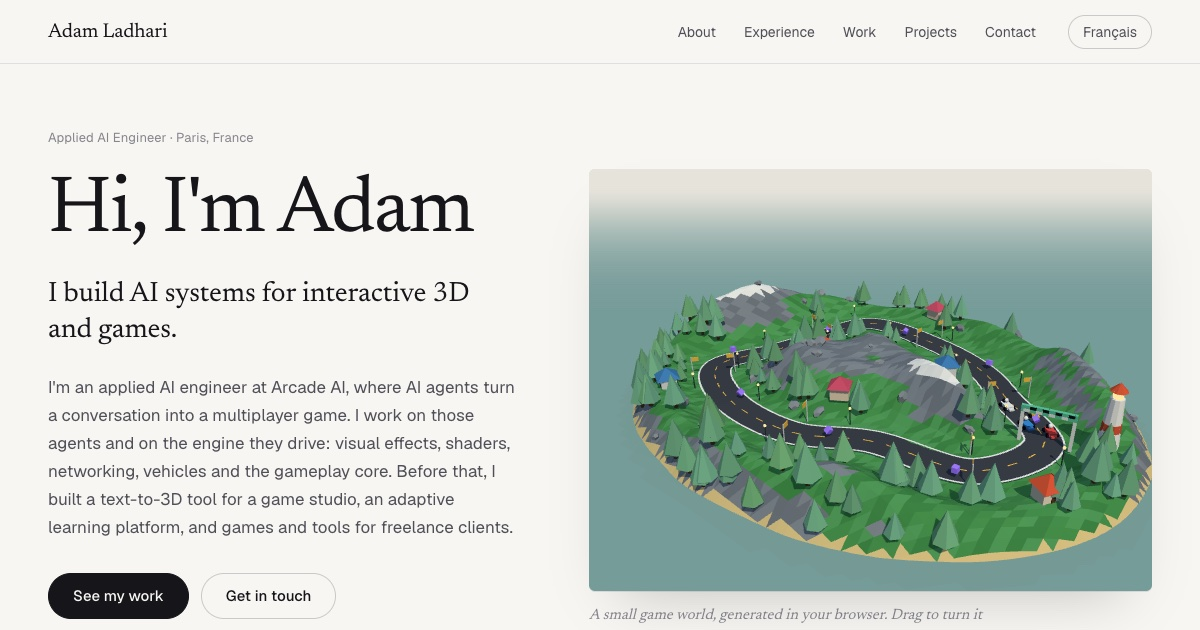
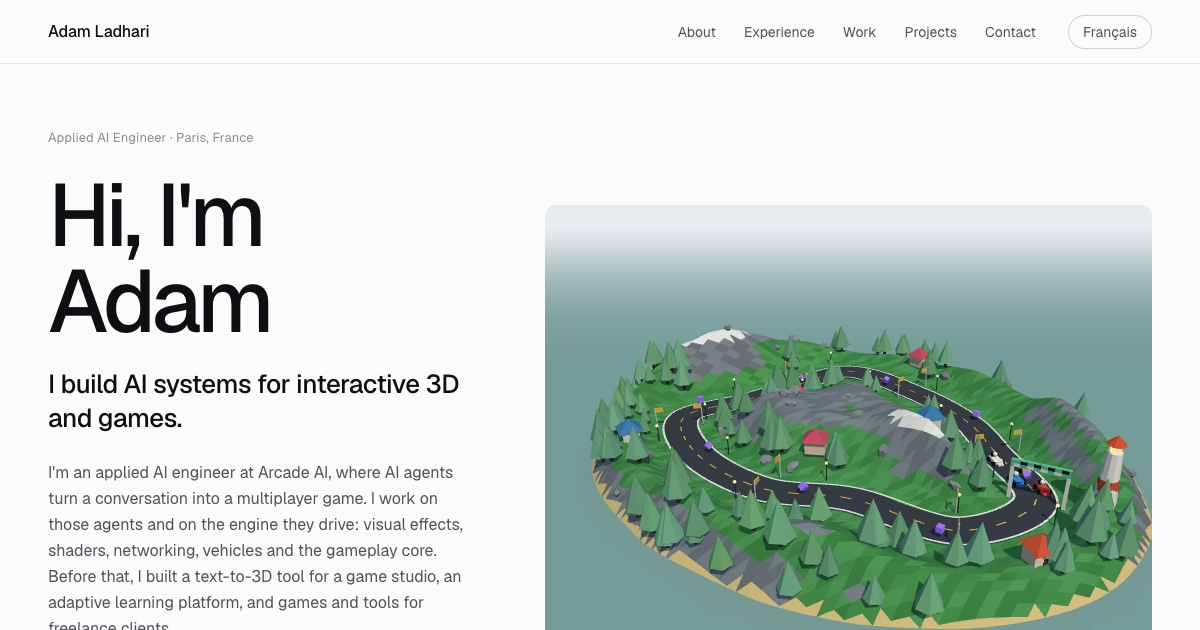
Move from editorial to a crisp portfolio layout
The serif and warm paper read like a blog. Headings are now Geist with
tight tracking on a cool white, sections use a two-column grid with a
numbered title on the left and content on the right, the hero gives the
3D more room, and the demo buttons are quiet outlines. Newsreader is
removed; poster and link preview recaptured.

diff --git a/src/styles.css b/src/styles.css
@@ -1,20 +1,20 @@
 @import '@fontsource-variable/geist/index.css';
 @import '@fontsource-variable/geist-mono/index.css';
-@import '@fontsource-variable/newsreader/index.css';
 
-/* Light editorial: paper, ink and one quiet green. The 3D stays dark, framed like a screen.
+/* Light and precise: white, ink, one quiet green, a strict two-column grid. The 3D stays dark, framed like a screen.
    Earlier design pass followed "unslop" by Damir Sokolovsky (@heydamir), CC BY 4.0. */
 
 :root {
-  --paper: #f7f6f2;
-  --bg: #f7f6f2;
-  --card: #efede7;
-  --raised: #e8e5dd;
-  --hair: rgba(22, 22, 26, 0.10);
-  --hair-strong: rgba(22, 22, 26, 0.20);
-  --text: #16161a;
-  --text-2: #4f4f57;
-  --text-3: #85858c;
+  --paper: #fbfbfa;
+  --bg: #fbfbfa;
+  --card: #f2f2f0;
+  --raised: #e9e9e6;
+  --sky: #e9ecee;
+  --hair: rgba(15, 15, 18, 0.09);
+  --hair-strong: rgba(15, 15, 18, 0.18);
+  --text: #0f0f12;
+  --text-2: #50525a;
+  --text-3: #8b8d94;
   --accent: #2f6b55;
   --negative: #b4543a;
   /* The 3D viewer and its overlays stay dark */
@@ -26,7 +26,6 @@
   --v-accent: #5dcaa5;
   --v-negative: #e0795a;
 
-  --serif: 'Newsreader Variable', 'Iowan Old Style', Georgia, serif;
   --sans: 'Geist Variable', system-ui, -apple-system, 'Segoe UI', Roboto, sans-serif;
   --mono: 'Geist Mono Variable', ui-monospace, 'SF Mono', Menlo, Consolas, monospace;
   --ease: cubic-bezier(0.22, 1, 0.36, 1);
@@ -54,10 +53,10 @@ a:hover { color: var(--accent); text-decoration-color: currentColor; }
 :focus-visible { outline: 2px solid var(--text); outline-offset: 3px; border-radius: 4px; }
 
 h1, h2, h3, h4, p, ul, ol, dl, dd { margin: 0; }
-h1, h2, h3 { font-family: var(--serif); font-weight: 400; font-optical-sizing: auto; }
-h1 { font-size: 80px; line-height: 1; letter-spacing: -0.025em; }
-h2 { font-size: 44px; line-height: 1.1; letter-spacing: -0.015em; }
-h3 { font-size: 26px; line-height: 1.25; letter-spacing: -0.005em; }
+h1, h2, h3 { font-weight: 500; }
+h1 { font-size: 88px; line-height: 0.98; letter-spacing: -0.045em; }
+h2 { font-size: 28px; line-height: 1.15; letter-spacing: -0.02em; }
+h3 { font-size: 24px; line-height: 1.25; letter-spacing: -0.015em; }
 h4 { font-size: 13px; line-height: 20px; font-weight: 500; color: var(--text-3); letter-spacing: 0.01em; }
 
 .skip { position: absolute; left: -999px; top: 8px; background: var(--text); color: var(--bg); padding: 8px 12px; border-radius: 8px; z-index: 50; }
@@ -69,12 +68,12 @@ h4 { font-size: 13px; line-height: 20px; font-weight: 500; color: var(--text-3);
   height: var(--top);
   display: flex; align-items: center; gap: 32px;
   padding: 0 var(--gutter);
-  background: rgba(247, 246, 242, 0.88);
+  background: rgba(251, 251, 250, 0.86);
   backdrop-filter: saturate(1.2) blur(12px);
   -webkit-backdrop-filter: saturate(1.2) blur(12px);
   border-bottom: 1px solid var(--hair);
 }
-.brand { font: 400 20px/1 var(--serif); color: var(--text); text-decoration: none; white-space: nowrap; letter-spacing: -0.01em; }
+.brand { font: 500 16px/1 var(--sans); color: var(--text); text-decoration: none; white-space: nowrap; letter-spacing: -0.01em; }
 .top nav { display: flex; flex: 1 1 auto; justify-content: flex-end; gap: 28px; min-width: 0; font-size: 14px; overflow-x: auto; scrollbar-width: none; }
 .top nav a { color: var(--text-2); text-decoration: none; white-space: nowrap; line-height: 32px; }
 .top nav a:hover { color: var(--text); }
@@ -91,7 +90,7 @@ h4 { font-size: 13px; line-height: 20px; font-weight: 500; color: var(--text-3);
 .btn:hover { border-color: var(--text); color: var(--text); }
 .btn:active { transform: scale(0.98); }
 .btn-primary { background: var(--text); color: var(--paper); border-color: var(--text); }
-.btn-primary:hover { background: #2c2c33; color: var(--paper); }
+.btn-primary:hover { background: #2a2b31; color: var(--paper); }
 .btn-sm { height: 38px; padding: 0 18px; font-size: 14px; }
 .icon-btn { width: 38px; height: 38px; flex: none; border-radius: 999px; border: 1px solid var(--hair-strong); background: transparent; color: var(--text); font: 400 15px/1 var(--sans); cursor: pointer; transition: border-color 160ms var(--ease), opacity 160ms var(--ease); }
 .icon-btn:hover { border-color: var(--text); }
@@ -101,19 +100,19 @@ h4 { font-size: 13px; line-height: 20px; font-weight: 500; color: var(--text-3);
 .hero {
   max-width: 1360px; margin: 0 auto; padding: 64px var(--gutter) 96px;
   min-height: calc(100svh - var(--top));
-  display: grid; grid-template-columns: minmax(0, 5fr) minmax(0, 6fr); gap: 72px; align-items: center;
+  display: grid; grid-template-columns: minmax(0, 5fr) minmax(0, 7fr); gap: 64px; align-items: center;
 }
 .hero-text { display: grid; gap: 24px; align-content: center; }
 .eyebrow, .kicker { font-size: 13px; line-height: 20px; color: var(--text-3); letter-spacing: 0.01em; }
-.lead { font: 400 28px/1.3 var(--serif); color: var(--text); max-width: 560px; letter-spacing: -0.005em; }
-.intro { color: var(--text-2); max-width: 540px; font-size: 17px; line-height: 28px; }
+.lead { font: 500 26px/1.3 var(--sans); color: var(--text); max-width: 520px; letter-spacing: -0.02em; }
+.intro { color: var(--text-2); max-width: 500px; font-size: 16px; line-height: 26px; }
 .actions { display: flex; flex-wrap: wrap; gap: 12px; margin-top: 8px; }
 .links { display: flex; flex-wrap: wrap; gap: 24px; font-size: 14px; }
 .links a { color: var(--text-2); }
 .links a:hover { color: var(--text); }
 .hero-visual { margin: 0; display: grid; gap: 14px; }
-.hero-visual .viewer-slot { aspect-ratio: 4 / 3; border-radius: 6px; overflow: hidden; background: #e6e3da; box-shadow: 0 1px 0 var(--hair), 0 30px 60px -30px rgba(22, 22, 26, 0.25); }
-.hero-visual figcaption { font: italic 400 15px/22px var(--serif); color: var(--text-3); }
+.hero-visual .viewer-slot { aspect-ratio: 4 / 3; border-radius: 12px; overflow: hidden; background: var(--sky); }
+.hero-visual figcaption { font: 400 13px/20px var(--mono); color: var(--text-3); }
 .viewer-slot { position: relative; }
 .viewer-poster { width: 100%; height: 100%; object-fit: cover; display: block; }
 .stage-ready #hero-slot .viewer-poster { visibility: hidden; }
@@ -121,12 +120,12 @@ h4 { font-size: 13px; line-height: 20px; font-weight: 500; color: var(--text-3);
 /* The shared 3D viewer, moved between the hero and the demo dialog */
 .viewer { position: absolute; inset: 0; }
 .stage-ready .viewer, .capture .viewer { background: var(--deep); }
-.stage-ready #hero-slot .viewer { background: #e6e3da; }
+.stage-ready #hero-slot .viewer { background: var(--sky); }
 #stage-canvas { position: absolute; inset: 0; width: 100%; height: 100%; display: block; touch-action: pan-y; cursor: grab; }
 #stage-canvas:active { cursor: grabbing; }
 .stage-loading { position: absolute; inset: 0; margin: auto; width: max-content; height: max-content; font-size: 13px; color: var(--v-text-3); }
 #hero-slot .stage-loading { color: var(--text-3); }
-#hero-slot .hud { background: rgba(247, 246, 242, 0.86); border-color: var(--hair); color: var(--text); backdrop-filter: blur(6px); }
+#hero-slot .hud { background: rgba(251, 251, 250, 0.86); border-color: var(--hair); color: var(--text); backdrop-filter: blur(6px); }
 #hero-slot .hud-row span:first-child { color: var(--text-3); }
 #hero-slot .hud-row .ok { color: var(--accent); }
 .capture .viewer { position: fixed; inset: 0; z-index: 100; }
@@ -162,13 +161,17 @@ h4 { font-size: 13px; line-height: 20px; font-weight: 500; color: var(--text-3);
 input[type='range'] { accent-color: var(--v-accent); }
 
 /* Sections */
-.band { max-width: 1360px; margin: 0 auto; padding: 128px var(--gutter); border-top: 1px solid var(--hair); display: grid; gap: 32px; }
-.band-intro { color: var(--text-2); max-width: 640px; margin-top: -12px; font-size: 17px; line-height: 28px; }
+main { counter-reset: section; }
+.band { max-width: 1360px; margin: 0 auto; padding: 112px var(--gutter); border-top: 1px solid var(--hair); display: grid; grid-template-columns: 240px minmax(0, 1fr); column-gap: 64px; row-gap: 32px; align-items: start; }
+.band > * { grid-column: 2; }
+.band > h2 { grid-column: 1; grid-row: 1 / span 30; position: sticky; top: calc(var(--top) + 32px); counter-increment: section; }
+.band > h2::before { content: counter(section, decimal-leading-zero); display: block; font: 400 13px/20px var(--mono); color: var(--text-3); letter-spacing: 0; margin-bottom: 12px; }
+.band-intro { color: var(--text-2); max-width: 600px; font-size: 17px; line-height: 28px; }
 
 /* About */
 .about-grid { display: grid; grid-template-columns: minmax(0, 3fr) minmax(0, 2fr); gap: 64px; align-items: start; }
 .about-text { display: grid; gap: 20px; color: var(--text-2); font-size: 18px; line-height: 30px; max-width: 660px; }
-.about-text p:first-child { color: var(--text); font: 400 24px/1.4 var(--serif); }
+.about-text p:first-child { color: var(--text); font: 500 22px/1.45 var(--sans); letter-spacing: -0.015em; }
 .facts { display: grid; gap: 0; border-top: 1px solid var(--hair); }
 .facts div { display: grid; grid-template-columns: 120px 1fr; gap: 16px; padding: 12px 0; border-bottom: 1px solid var(--hair); }
 .facts dt { font-size: 13px; line-height: 24px; color: var(--text-3); }
@@ -176,11 +179,11 @@ input[type='range'] { accent-color: var(--v-accent); }
 
 /* Experience timeline */
 .timeline-list { list-style: none; padding: 0; display: grid; gap: 0; }
-.job { display: grid; grid-template-columns: 220px minmax(0, 1fr); gap: 40px; padding: 36px 0; border-top: 1px solid var(--hair); }
+.job { display: grid; grid-template-columns: 180px minmax(0, 1fr); gap: 40px; padding: 32px 0; border-top: 1px solid var(--hair); }
 .job:first-child { border-top: 0; padding-top: 8px; }
 .job-when { display: grid; gap: 4px; align-content: start; font: 400 13px/20px var(--mono); color: var(--text-3); }
 .job-what { display: grid; gap: 8px; max-width: 760px; }
-.job-what h3 { font-size: 26px; line-height: 32px; }
+.job-what h3 { font-size: 22px; line-height: 28px; }
 .job-org { font-size: 15px; color: var(--text-2); }
 .job-org strong { font-weight: 500; color: var(--text); }
 .job-what ul { margin: 8px 0 0; padding-left: 18px; display: grid; gap: 10px; color: var(--text-2); }
@@ -188,21 +191,23 @@ input[type='range'] { accent-color: var(--v-accent); }
 .job-what li strong { font-weight: 500; color: var(--text); }
 
 /* Selected work */
-.work-grid { display: grid; grid-template-columns: repeat(2, minmax(0, 1fr)); gap: 72px 48px; margin-top: 16px; counter-reset: work; }
+.work-grid { display: grid; grid-template-columns: repeat(2, minmax(0, 1fr)); gap: 64px 32px; counter-reset: work; }
 .work-card { display: flex; flex-direction: column; counter-increment: work; }
-.work-thumb { position: relative; display: block; padding: 0; border: 0; background: var(--deep); cursor: default; aspect-ratio: 16 / 9; overflow: hidden; border-radius: 6px; box-shadow: 0 24px 48px -32px rgba(22, 22, 26, 0.35); }
+.work-thumb { position: relative; display: block; padding: 0; border: 0; background: var(--deep); cursor: default; aspect-ratio: 16 / 9; overflow: hidden; border-radius: 12px; }
 .work-thumb img { width: 100%; height: 100%; object-fit: cover; display: block; transition: transform 300ms var(--ease); }
 .has-stage .work-thumb { cursor: pointer; }
 .has-stage .work-thumb:hover img { transform: scale(1.02); }
-.work-play { display: none; position: absolute; left: 16px; bottom: 16px; padding: 8px 14px; border-radius: 999px; background: rgba(247, 246, 242, 0.92); color: var(--text); font-size: 13px; line-height: 16px; }
+.work-play { display: none; position: absolute; left: 16px; bottom: 16px; padding: 8px 14px; border-radius: 999px; background: rgba(251, 251, 250, 0.94); color: var(--text); font-size: 13px; line-height: 16px; }
 .has-stage .work-play { display: inline-block; }
-.work-body { padding: 24px 0 0; display: grid; gap: 12px; align-content: start; flex: 1; }
+.work-body { padding: 20px 0 0; display: grid; gap: 10px; align-content: start; flex: 1; }
 .work-body .kicker::before { content: counter(work, decimal-leading-zero); font-family: var(--mono); color: var(--text); margin-right: 12px; }
-.work-body h3 { font-size: 28px; line-height: 1.2; }
+.work-body h3 { font-size: 22px; line-height: 1.25; }
 .work-summary { color: var(--text-2); }
 .work-figure { font-size: 14px; line-height: 20px; color: var(--text-2); }
-.work-figure strong { font: 400 22px/1 var(--serif); color: var(--accent); margin-right: 8px; }
+.work-figure strong { font: 500 15px/1 var(--mono); color: var(--accent); margin-right: 8px; }
 .work-actions:has(> [hidden]) { display: none; }
+.work-actions .btn { background: transparent; color: var(--text); border-color: var(--hair-strong); }
+.work-actions .btn:hover { border-color: var(--text); background: transparent; color: var(--text); }
 .work-details { border-top: 1px solid var(--hair); padding-top: 14px; margin-top: 4px; }
 .work-details summary { cursor: pointer; font-size: 14px; color: var(--text-2); list-style: none; }
 .work-details summary::-webkit-details-marker { display: none; }
@@ -214,7 +219,7 @@ input[type='range'] { accent-color: var(--v-accent); }
 .step p { color: var(--text-2); font-size: 15px; }
 .tiles { display: grid; grid-template-columns: repeat(auto-fit, minmax(152px, 1fr)); gap: 12px; margin-top: 8px; }
 .tile { border-top: 1px solid var(--hair-strong); padding: 14px 0 0; display: flex; flex-direction: column-reverse; justify-content: flex-end; gap: 8px; }
-.tile dd { font: 400 30px/1.05 var(--serif); color: var(--text); }
+.tile dd { font: 500 26px/1.1 var(--sans); letter-spacing: -0.02em; color: var(--text); }
 .tile dt { font-size: 13px; line-height: 20px; color: var(--text-2); }
 .tiles-inline { grid-template-columns: repeat(auto-fit, minmax(128px, 224px)); }
 .bars { display: grid; gap: 8px; margin-top: 8px; max-width: 608px; }
@@ -230,10 +235,10 @@ input[type='range'] { accent-color: var(--v-accent); }
 .demo::backdrop { background: rgba(22, 22, 26, 0.55); backdrop-filter: blur(4px); }
 .demo-inner { display: grid; grid-template-columns: minmax(0, 1fr) 360px; grid-template-areas: 'head head' 'stage text' 'steps text'; }
 .demo-head { grid-area: head; display: flex; align-items: flex-start; justify-content: space-between; gap: 16px; padding: 20px 24px; border-bottom: 1px solid var(--hair); }
-.demo-head h2 { font-size: 30px; line-height: 1.2; margin-top: 4px; }
+.demo-head h2 { font-size: 26px; line-height: 1.2; margin-top: 4px; }
 .demo-stage { grid-area: stage; position: relative; }
 .demo-stage .viewer-slot { aspect-ratio: 16 / 10; background: var(--deep); }
-.demo-caption { min-height: 76px; padding: 18px 24px; font: italic 400 19px/28px var(--serif); color: var(--text); }
+.demo-caption { min-height: 76px; padding: 18px 24px; font: 400 17px/26px var(--sans); color: var(--text); }
 .demo-steps { grid-area: steps; display: flex; align-items: center; gap: 12px; padding: 16px 24px; border-top: 1px solid var(--hair); }
 .demo-steps ol { list-style: none; margin: 0; padding: 0; flex: 1; display: grid; grid-template-columns: repeat(4, 1fr); gap: 8px; }
 .demo-steps ol button { width: 100%; display: flex; align-items: center; gap: 8px; height: 40px; padding: 0 12px; border-radius: 999px; border: 1px solid var(--hair); background: transparent; color: var(--text-3); font: 400 14px/1 var(--sans); cursor: pointer; text-align: left; transition: background-color 160ms var(--ease), color 160ms var(--ease), border-color 160ms var(--ease); }
@@ -245,7 +250,7 @@ input[type='range'] { accent-color: var(--v-accent); }
 .demo-steps ol button.done .step-num { color: var(--accent); }
 .demo-text { grid-area: text; padding: 24px; border-left: 1px solid var(--hair); overflow: auto; }
 .demo-text .step { margin-top: 0; gap: 12px; }
-.demo-text .step h4 { font: 400 24px/1.25 var(--serif); color: var(--text); }
+.demo-text .step h4 { font: 500 20px/1.3 var(--sans); letter-spacing: -0.015em; color: var(--text); }
 .demo-text .step p { font-size: 16px; line-height: 27px; color: var(--text-2); }
 .demo-text .tiles { grid-template-columns: 1fr 1fr; }
 .demo-text .bar { grid-template-columns: minmax(0, 120px) 1fr 40px; }
@@ -253,17 +258,17 @@ input[type='range'] { accent-color: var(--v-accent); }
 /* More projects */
 .project-group { display: grid; gap: 20px; margin-top: 24px; }
 .project-group > h3 { font: 400 13px/20px var(--sans); color: var(--text-3); padding-bottom: 12px; border-bottom: 1px solid var(--hair); }
-.projects { display: grid; grid-template-columns: repeat(auto-fill, minmax(min(100%, 272px), 1fr)); gap: 40px 32px; }
+.projects { display: grid; grid-template-columns: repeat(auto-fill, minmax(min(100%, 240px), 1fr)); gap: 40px 24px; }
 .project { display: flex; flex-direction: column; }
-.project img { width: 100%; height: auto; aspect-ratio: 16 / 9; object-fit: cover; display: block; background: var(--raised); border-radius: 4px; }
+.project img { width: 100%; height: auto; aspect-ratio: 16 / 9; object-fit: cover; display: block; background: var(--raised); border-radius: 8px; }
 .project-body { padding: 14px 0 0; display: grid; gap: 6px; align-content: start; }
-.project-body h4 { font: 400 20px/1.3 var(--serif); color: var(--text); }
+.project-body h4 { font: 500 16px/1.4 var(--sans); color: var(--text); }
 .project-body p { font-size: 14px; line-height: 20px; color: var(--text-2); }
 .project-body .project-note { font: 400 12px/16px var(--mono); color: var(--text-3); }
 .project-body a { font-size: 14px; }
 
 .band-split { grid-template-columns: repeat(auto-fit, minmax(min(100%, 384px), 1fr)); gap: 96px; }
-.band-split > div { display: grid; gap: 24px; align-content: start; }
+.band-split > div { display: grid; gap: 24px; align-content: start; grid-column: auto; }
 .defs { display: grid; gap: 16px; }
 .defs dt { font-size: 14px; line-height: 20px; font-weight: 500; color: var(--text); }
 .defs > div { padding-bottom: 16px; border-bottom: 1px solid var(--hair); }
@@ -278,10 +283,13 @@ input[type='range'] { accent-color: var(--v-accent); }
 }
 @media (max-width: 899px) {
   :root { --gutter: 20px; --top: 56px; }
-  h1 { font-size: 52px; line-height: 1.02; }
-  h2 { font-size: 34px; }
-  h3 { font-size: 22px; }
-  .lead { font-size: 23px; }
+  h1 { font-size: 56px; line-height: 1; }
+  h2 { font-size: 26px; }
+  h3 { font-size: 21px; }
+  .lead { font-size: 21px; }
+  .band { grid-template-columns: 1fr; }
+  .band > *, .band > h2 { grid-column: 1; grid-row: auto; position: static; }
+  .about-text p:first-child { font-size: 18px; line-height: 1.5; }
   .top { gap: 16px; justify-content: space-between; }
   .top nav { display: none; }
   .brand { font-size: 19px; }

diff --git a/src/render.ts b/src/render.ts
@@ -102,7 +102,7 @@ export function renderHead(c: Content): string {
   return `<title>${esc(c.meta.title)}</title>
     <meta name="description" content="${esc(c.meta.description)}" />
     <meta name="author" content="Adam Ladhari" />
-    <meta name="theme-color" content="#f7f6f2" />
+    <meta name="theme-color" content="#fbfbfa" />
     <meta name="color-scheme" content="light" />
     <link rel="canonical" href="${url}" />
     <link rel="alternate" hreflang="en" href="${SITE}/" />

diff --git a/src/stage/index.ts b/src/stage/index.ts
@@ -33,7 +33,7 @@ export interface StageOptions {
 
 const BG = 0x07080d;
 /** The hero island sits on the light page, so its sky matches the page's frame. */
-const PAPER = 0xe6e3da;
+const PAPER = 0xe9ecee;
 
 export function createStage(opts: StageOptions): Stage {
   const { canvas, lowPower } = opts;
